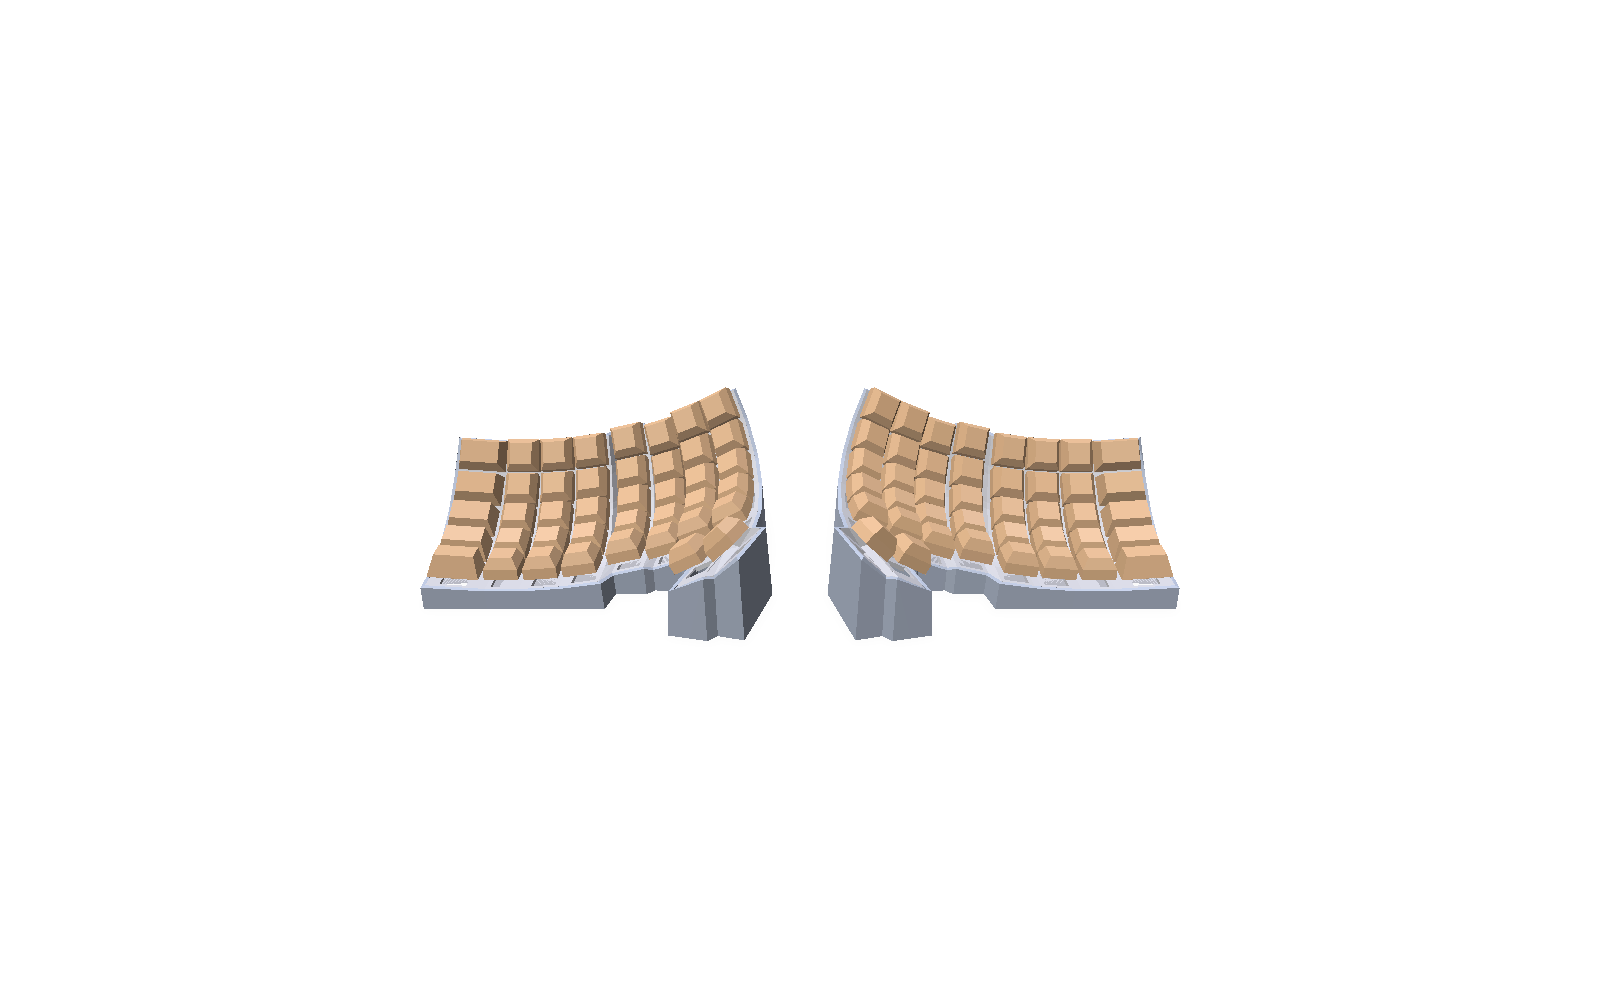
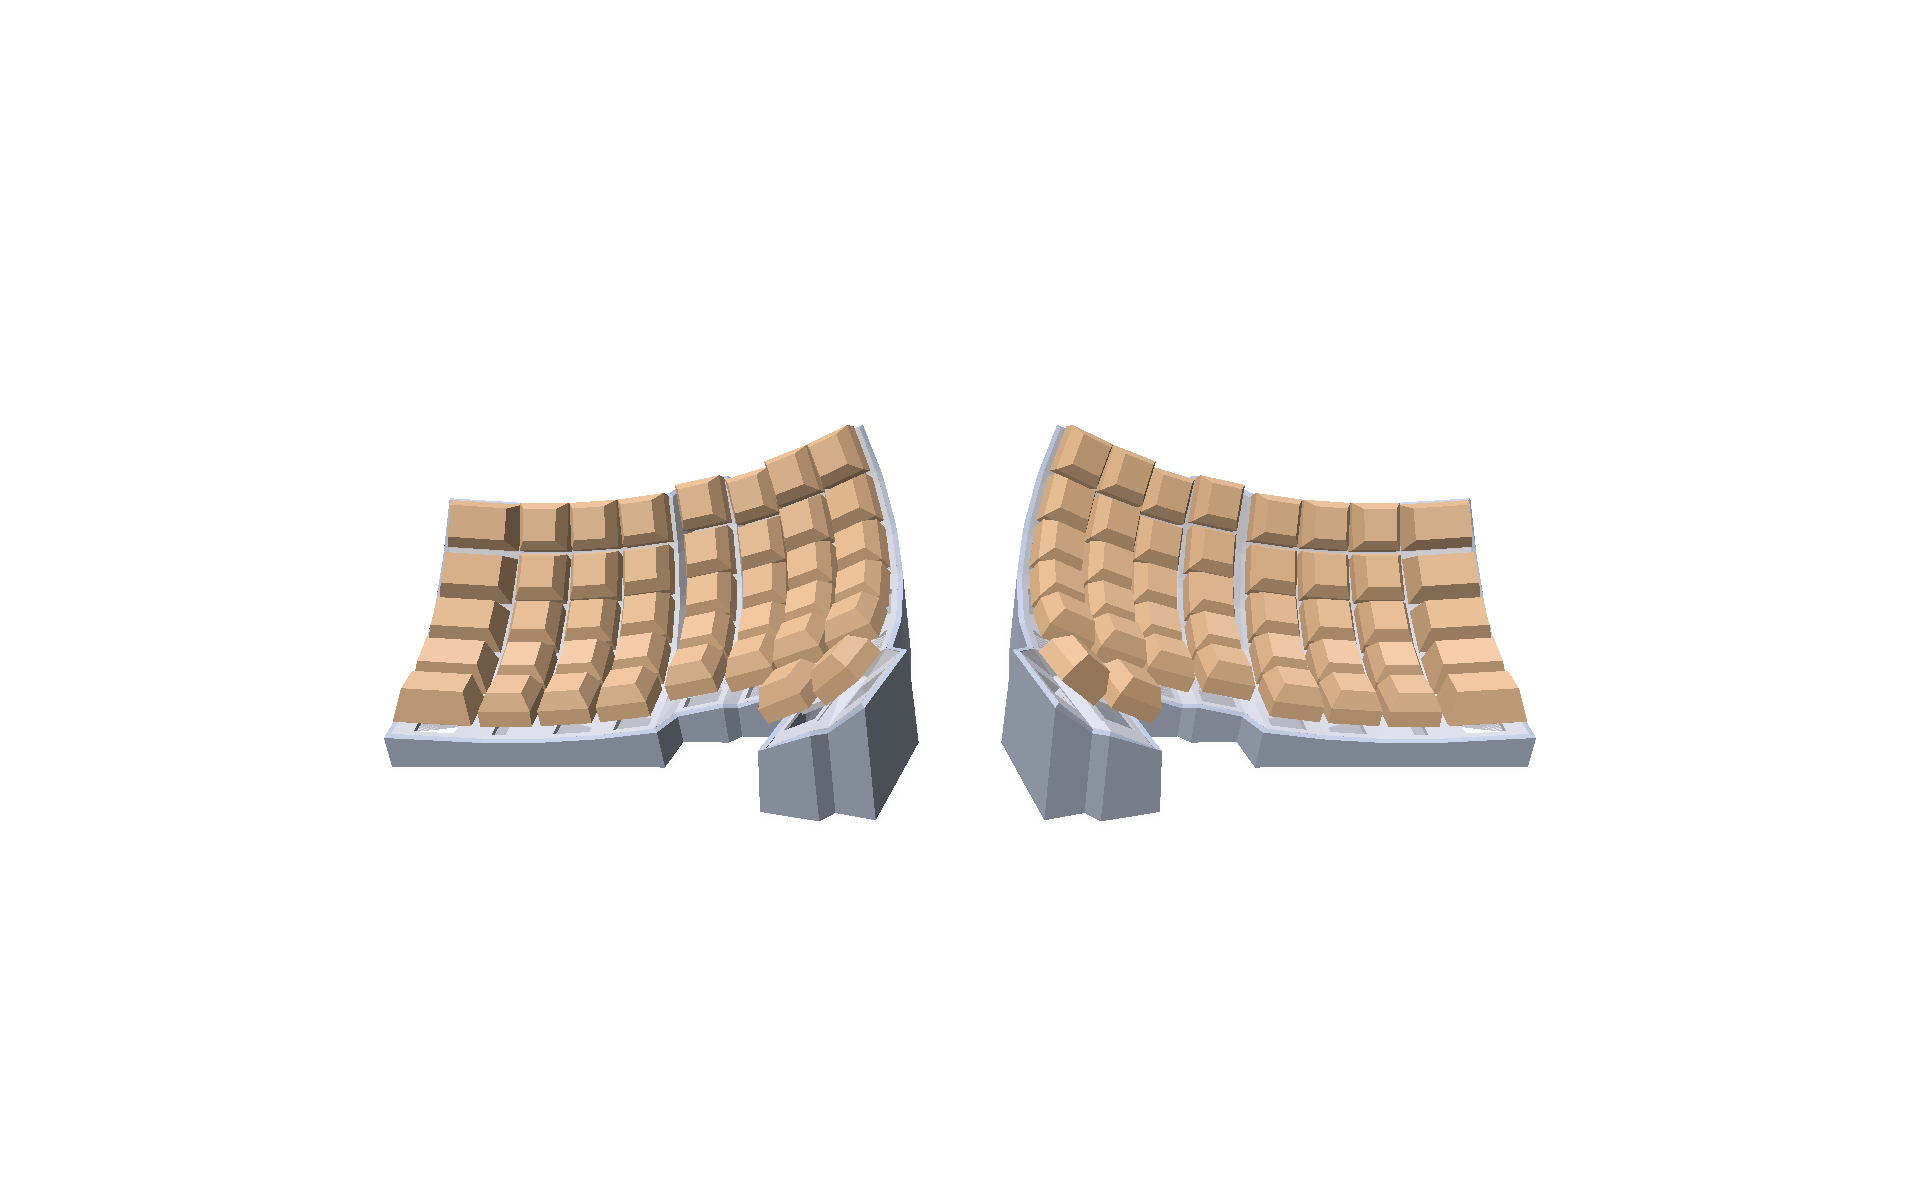
Add example renders to the README
Rendered through the GUI pipeline with different configurations:
per row tapered pinky widths, independently configured halves, a
compact 4x5 variant with steep tenting, and a back view of the
uniform case walls. Refresh the status image with the current
default build.

Changed region(s): [[0.1875, 0.341, 0.8125, 0.682]]

diff --git a/README.md b/README.md
@@ -5,7 +5,29 @@ This code should be slightly more organized and easier to use. In progress
 
 # Status
 
+Both halves with the default configuration (6 rows, 8 columns), rendered live in the GUI:
+
 ![](renders/state.png)
+
+# Examples
+
+All of these were configured with the sliders in the live GUI and rendered there.
+
+Pinky column width set per row, tapering from 34 mm at the back to 19 mm at the front:
+
+![](renders/tapered_pinky.png)
+
+Halves configured independently, each with its own sliders (left: 5 rows x 6 columns with 30 degree tenting, right: 6 rows x 8 columns):
+
+![](renders/independent_halves.png)
+
+Compact variant (4 rows, 5 columns, 25 degree tenting):
+
+![](renders/compact.png)
+
+The case seen from the back: the walls have a single uniform thickness, follow the plate edges, and wrap around the thumb cluster:
+
+![](renders/walls_back.png)
 
 # How to use
 
